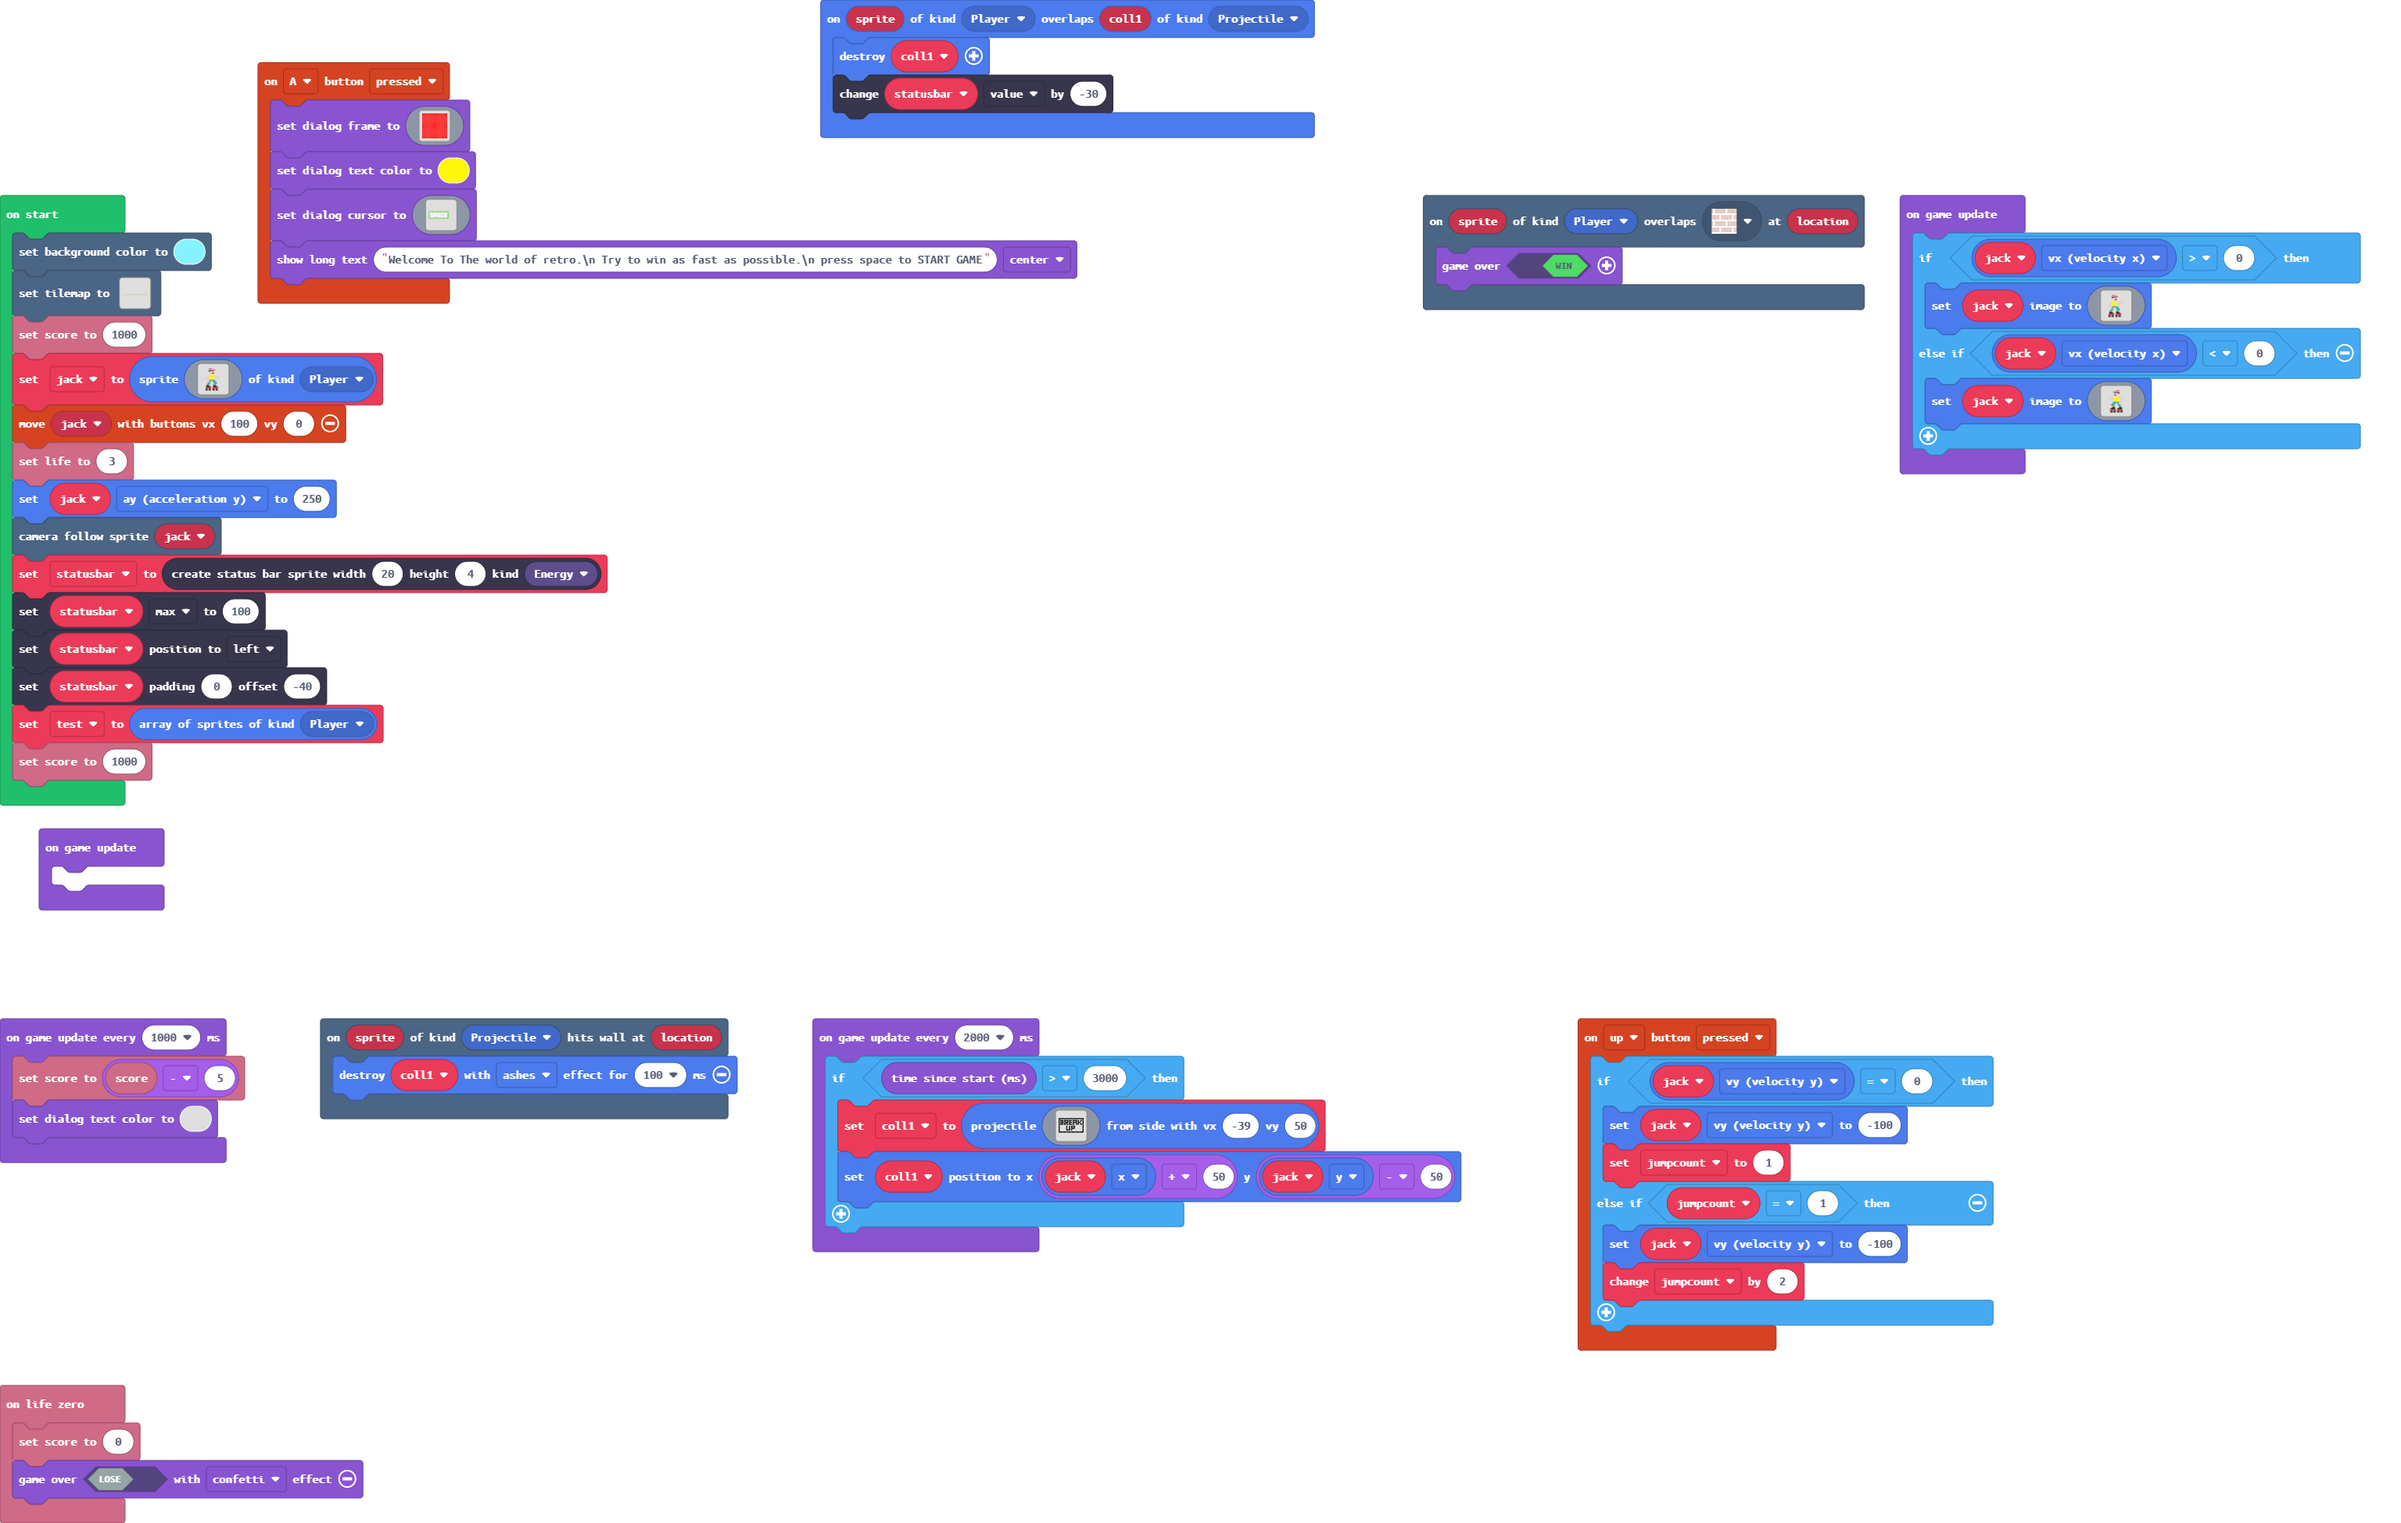
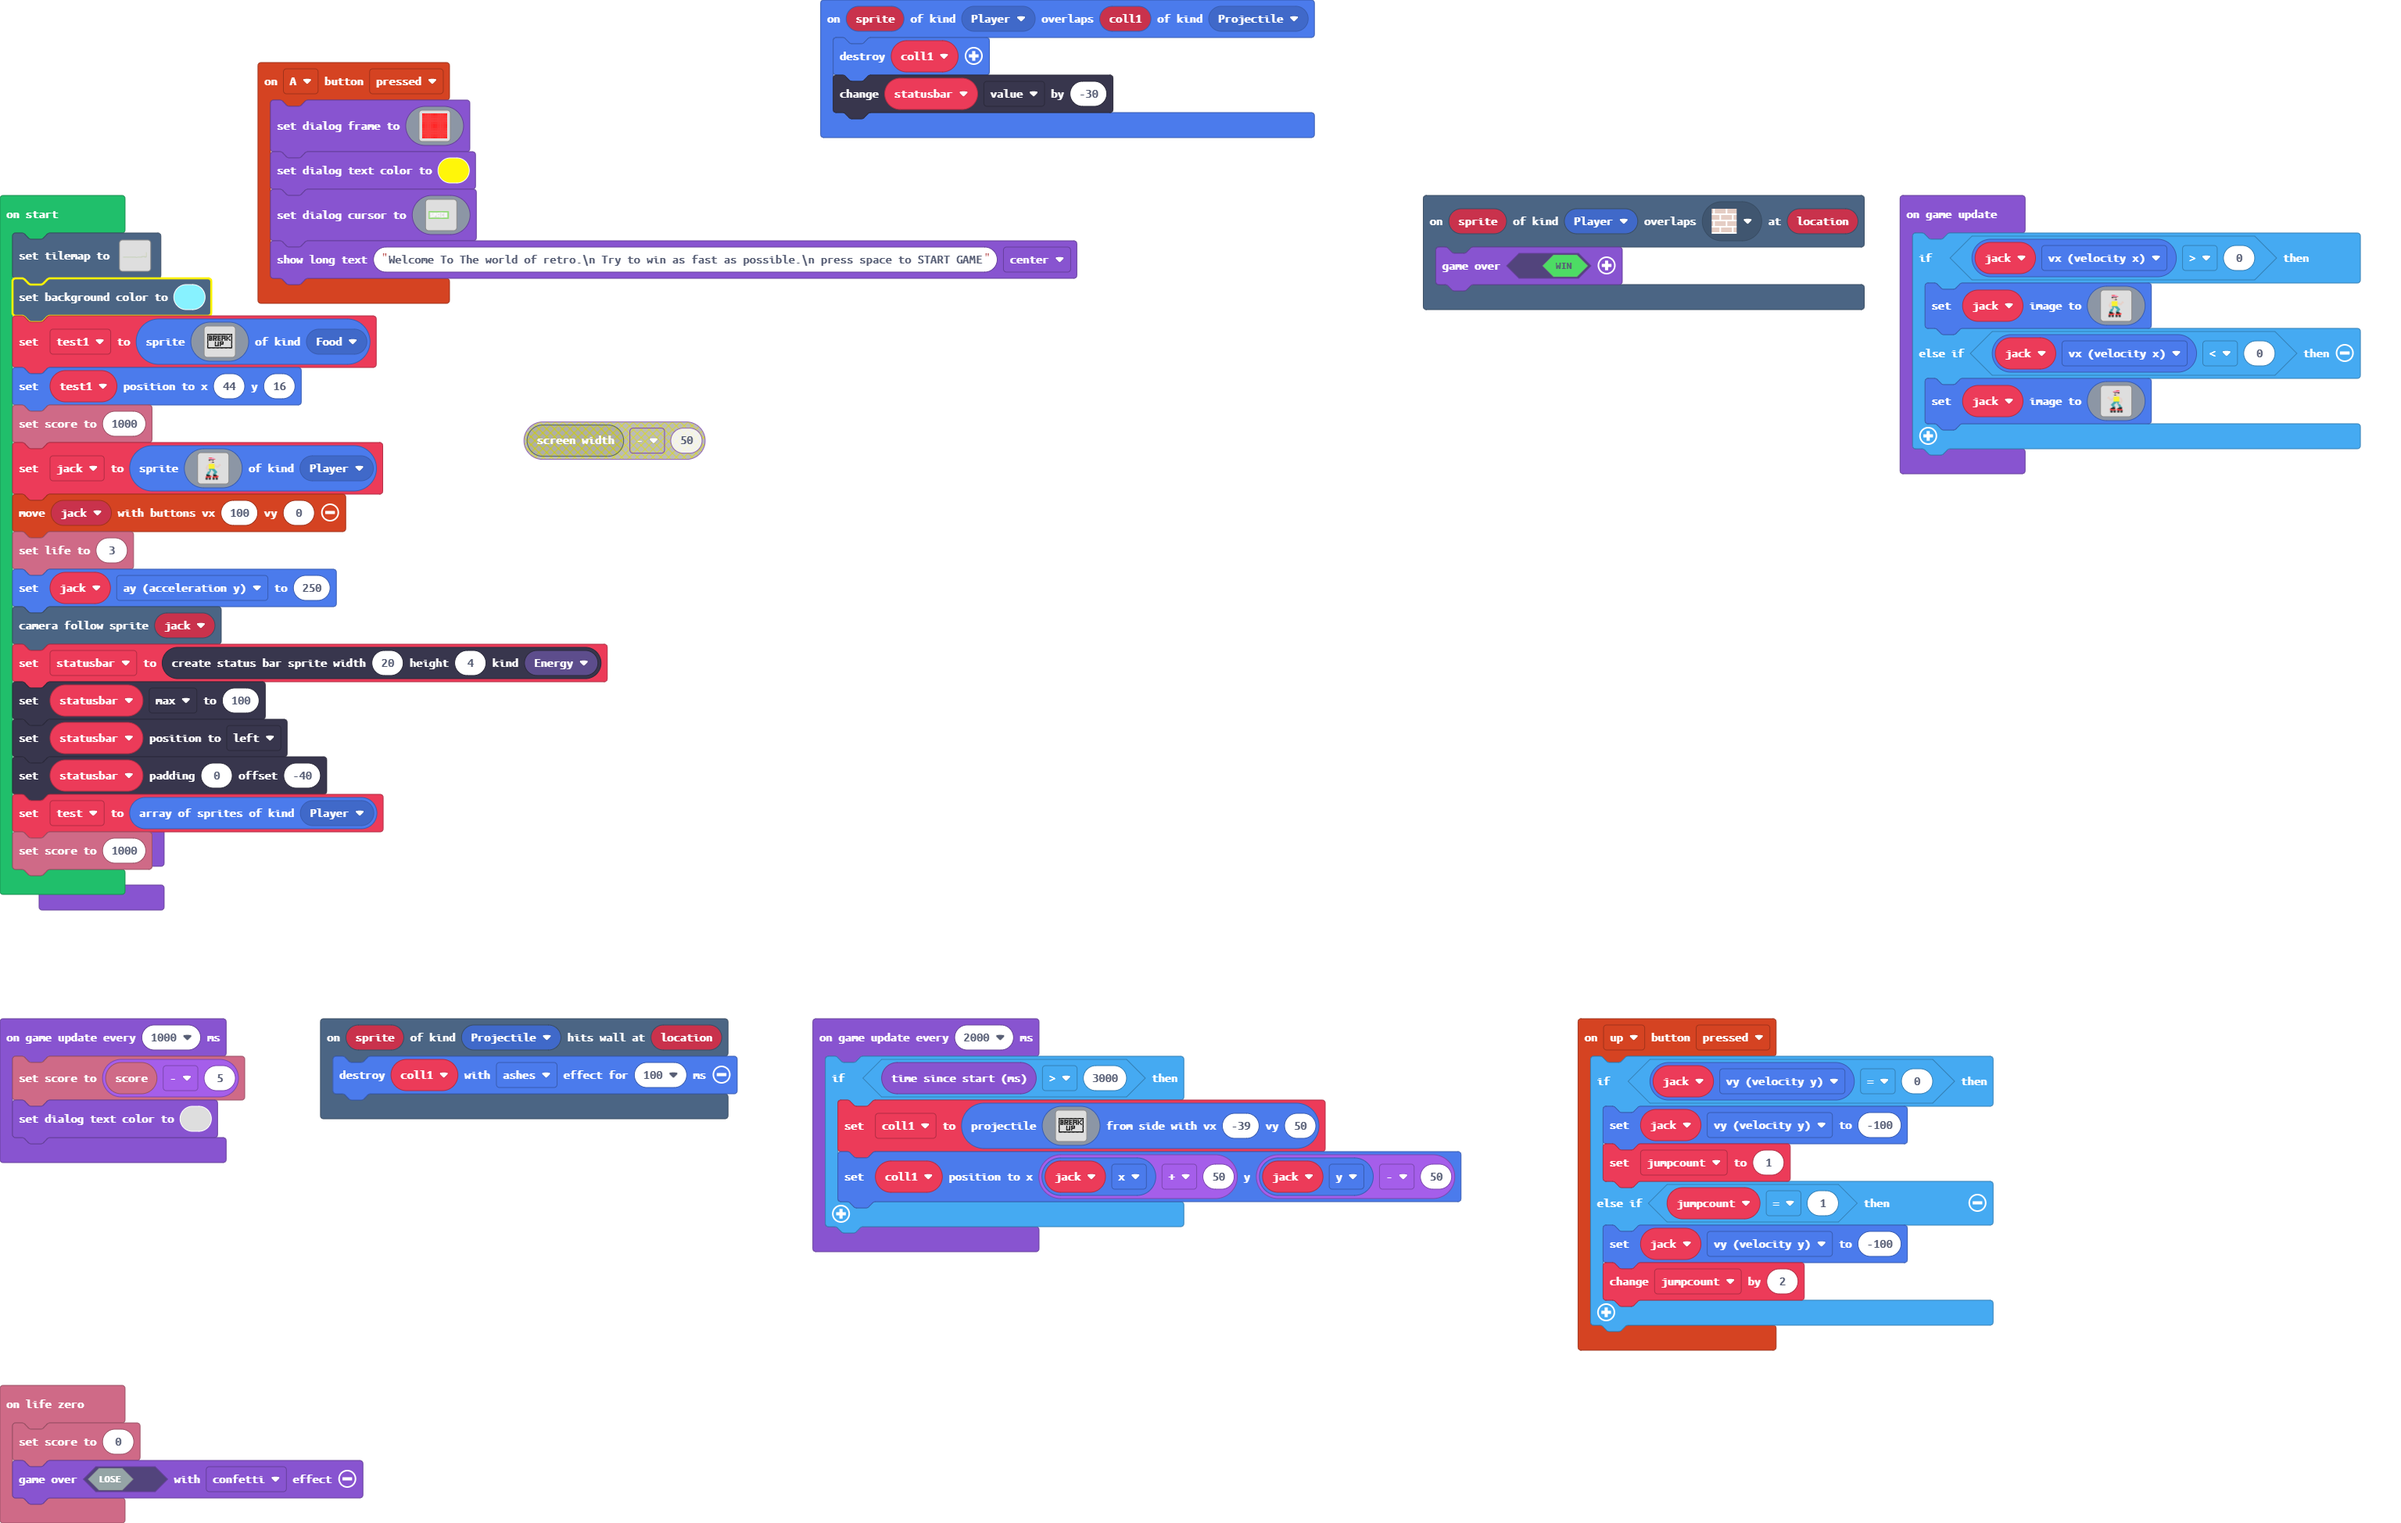
Update main.blocks, main.ts, images.g.jres, images.g.ts, tilemap.g.jres, tilemap.g.ts

Changed region(s): [[0.0, 0.154, 0.2784, 0.5852], [0.2165, 0.2772, 0.3093, 0.308]]

diff --git a/images.g.ts b/images.g.ts
@@ -280,7 +280,7 @@ f........................f
 ffffffffffffffffffffffffff
 `;
             case "image8":
-            case "image9":return img`
+            case "image12":return img`
 ....................................................................................................
 .......22222333.....................................................................................
 .......33333333................................22222333.............................................
@@ -422,7 +422,7 @@ ffffffffffffffffffffffffff
 .fff..fff...fff..fff......
 `;
             case "image9":
-            case "image12":return img`
+            case "image14":return img`
 ...................................
 ............22222333...............
 ............33333333...............
@@ -458,6 +458,24 @@ fff22ff............................
 f.f22ff............................
 fff222.............................
 ....22.............................
+`;
+            case "image13":return img`
+. . . . . . . . . . . . . . . . 
+. . . . . . . . . . . . . . . . 
+. . . . . . . . . . . . . . . . 
+. . . . . . . . . . . . . . . . 
+. . . . . . . . . . . . . . . . 
+. . . . . . . . . . . . . . . . 
+. . . . . . . . . . . . . . . . 
+. . . . . . . . . . . . . . . . 
+. . . . . . . . . . . . . . . . 
+. . . . . . . . . . . . . . . . 
+. . . . . . . . . . . . . . . . 
+. . . . . . . . . . . . . . . . 
+. . . . . . . . . . . . . . . . 
+. . . . . . . . . . . . . . . . 
+. . . . . . . . . . . . . . . . 
+. . . . . . . . . . . . . . . . 
 `;
         }
         return null;

diff --git a/tilemap.g.ts b/tilemap.g.ts
@@ -72,7 +72,7 @@ namespace myTiles {
 ..................................................
 ..................................................
 ..................................................
-`, [myTiles.transparency16,sprites.castle.tilePath1,sprites.builtin.brick], TileScale.Sixteen);
+`, [myTiles.transparency16,sprites.castle.tilePath1,sprites.builtin.brick,myTiles.tile1], TileScale.Sixteen);
         }
         return null;
     })

diff --git a/main.ts b/main.ts
@@ -63,8 +63,10 @@ let coll1: Sprite = null
 let jumpcount = 0
 let statusbar: StatusBarSprite = null
 let jack: Sprite = null
-scene.setBackgroundColor(9)
 tiles.setTilemap(tilemap`level4`)
+scene.setBackgroundColor(9)
+let test1 = sprites.create(assets.image`image8`, SpriteKind.Food)
+test1.setPosition(44, 16)
 info.setScore(1000)
 jack = sprites.create(assets.image`image6`, SpriteKind.Player)
 controller.moveSprite(jack, 100, 0)
